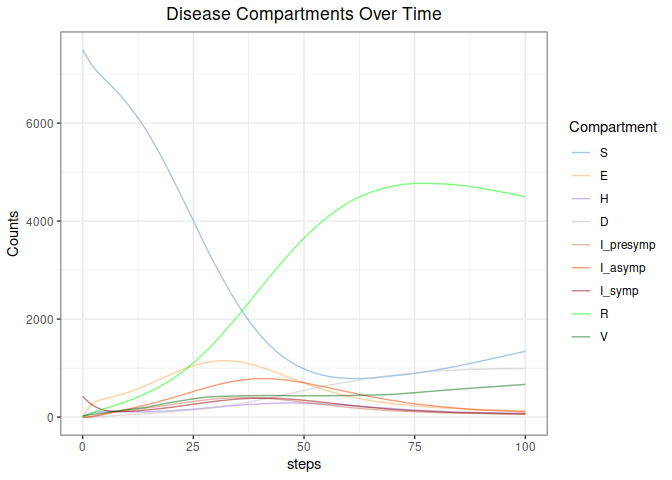
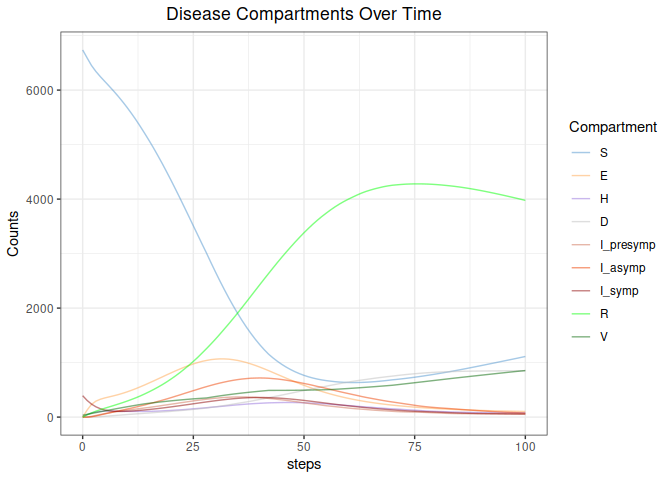
adding physical image to readme

diff --git a/README.md b/README.md
@@ -13,8 +13,10 @@ virus diseases.
 
 ## Model
 
-<div class="grViz html-widget html-fill-item" id="htmlwidget-72ba327d9b9082e597d2" style="width:100%;height:480px;"></div>
-<script type="application/json" data-for="htmlwidget-72ba327d9b9082e597d2">{"x":{"diagram":"digraph {\n\n    graph[layout = dot,\n          fontsize = 15,\n          outputorder = edgesfirst,\n          ranksep = 1]\n\n    # Node numbers with labelled text\n    node [shape = box,\n    width = 2,\n    fontname = Helvetica]\n\n    S [label = \"Susceptible\", style = \"filled\", fillcolor = \"palegreen4\"]\n    E [label = \"Exposed\", style = \"filled\", fillcolor = \"yellow\"]\n    V [label = \"Vaccinated\", style = \"filled\", fillcolor = \"palegreen\"]\n    Ip [label = \"Infectious \n Presymptomatic\", style = \"filled\", fillcolor = \"indianred1\"]\n    Ia [label = \"Infectious \n Asymptomatic\", style = \"filled\", fillcolor = \"indianred3\"]\n    Is [label = \"Infectious \n Symptomatic\", style = \"filled\", fillcolor = \"indianred3\"]\n    H [label = \"Hospitalized\", style = \"filled\", fillcolor = \"indianred4\", fontcolor = \"white\"]\n    R [label = \"Recoverd\", style = \"filled\", fillcolor = \"lightyellow\"]\n    D [label = \"Dead\", style = \"filled\", fillcolor = \"grey\"]\n\n    edge[color=darkgrey,arrowhead=vee]\n    S -> E ;\n    E -> Ia ;\n    Ia -> R ;\n    S -> V ;\n    V -> S ;\n    V -> E ;\n    E -> Ip ;\n    Ip -> Is ;\n    Is -> H ;\n    Is -> R;\n    H -> R;\n    H -> D;\n    R -> S ;\n\n    {rank = min; S; E; Ia; R}\n    {rank = same; Ip; Is; H}\n    {rank = max; V; D}\n\n    }","config":{"engine":"dot","options":null}},"evals":[],"jsHooks":[]}</script>
+<figure>
+<img src="man/figures/model.png" alt="Model schematics" />
+<figcaption aria-hidden="true">Model schematics</figcaption>
+</figure>
 
 ## Installation
 
@@ -66,12 +68,12 @@ pop_zones$S0 <- pop_zones$N - pop_zones$I0 - pop_zones$V0
 
 pop_zones
 #>      N   S0 I0 V0
-#> 1 1011  942 63  6
-#> 2 1458 1419 31  8
-#> 3 1405 1345 53  7
-#> 4 1447 1406 39  2
-#> 5 1443 1423 11  9
-#> 6 1437 1380 54  3
+#> 1 1099 1051 41  7
+#> 2 1176 1104 63  9
+#> 3 1144 1105 38  1
+#> 4 1174 1087 84  3
+#> 5 1409 1328 71 10
+#> 6 1161 1061 96  4
 ```
 
 #### Vaccination
@@ -92,14 +94,14 @@ colnames(vac_zones) <- c("t", paste0("v", 1:N_pop))
 
 vac_zones
 #>       t v1 v2 v3 v4 v5 v6
-#> [1,]  0  6  8  7  2  9  3
-#> [2,] 14  3  5  1  4  2  4
-#> [3,] 28  3  3  8 10  7  4
-#> [4,] 42  6  2  9  2  1  5
-#> [5,] 56  7  7  5  7  6  1
-#> [6,] 70  3  3  4  8  9  9
-#> [7,] 84  6  5  5  5  8 10
-#> [8,] 98  2  3  4  7  5  2
+#> [1,]  0  7  9  1  3 10  4
+#> [2,] 14  7  5  6  4  1  5
+#> [3,] 28  6  7  3 10 10  9
+#> [4,] 42  8  5 10  2  2  4
+#> [5,] 56  5  9  5  5  9  2
+#> [6,] 70  7  7  8  7  2  9
+#> [7,] 84  6  7  9  5  8  4
+#> [8,] 98  1  4  7  7 10  9
 ```
 
 ``` r
@@ -166,7 +168,7 @@ out <- meta_sim(N_pop = N_pop,
 #> gcc -I"/usr/share/R/include" -DNDEBUG      -fpic  -g -O2 -ffile-prefix-map=/build/r-base-4A2Reg/r-base-4.1.2=. -fstack-protector-strong -Wformat -Werror=format-security -Wdate-time -D_FORTIFY_SOURCE=2 -g  -UNDEBUG -Wall -pedantic -g -O0 -c odin.c -o odin.o
 #> gcc -I"/usr/share/R/include" -DNDEBUG      -fpic  -g -O2 -ffile-prefix-map=/build/r-base-4A2Reg/r-base-4.1.2=. -fstack-protector-strong -Wformat -Werror=format-security -Wdate-time -D_FORTIFY_SOURCE=2 -g  -UNDEBUG -Wall -pedantic -g -O0 -c registration.c -o registration.o
 #> gcc -shared -L/usr/lib/R/lib -Wl,-Bsymbolic-functions -flto=auto -ffat-lto-objects -flto=auto -Wl,-z,relro -o odin840d0a65.so odin.o registration.o -L/usr/lib/R/lib -lR
-#> installing to /tmp/RtmpuaNN6h/devtools_install_7f2783bf2fcf5/00LOCK-file7f2782f113a3a/00new/odin840d0a65/libs
+#> installing to /tmp/Rtmp3FjtcU/devtools_install_7feee7047e3f3/00LOCK-file7feee37bdb12d/00new/odin840d0a65/libs
 #> ** checking absolute paths in shared objects and dynamic libraries
 #> * DONE (odin840d0a65)
 #> ℹ Loading odin840d0a65
@@ -239,7 +241,7 @@ ggplot(long_out %>% filter(disease_state %in% c("S", "E", "H", "D",
           )
 ```
 
-<img src="man/figures/README-unnamed-chunk-6-1.png" width="100%" />
+<img src="man/figures/README-unnamed-chunk-5-1.png" width="100%" />
 
 To run this simulation interactively, use the provided shiny app
 
